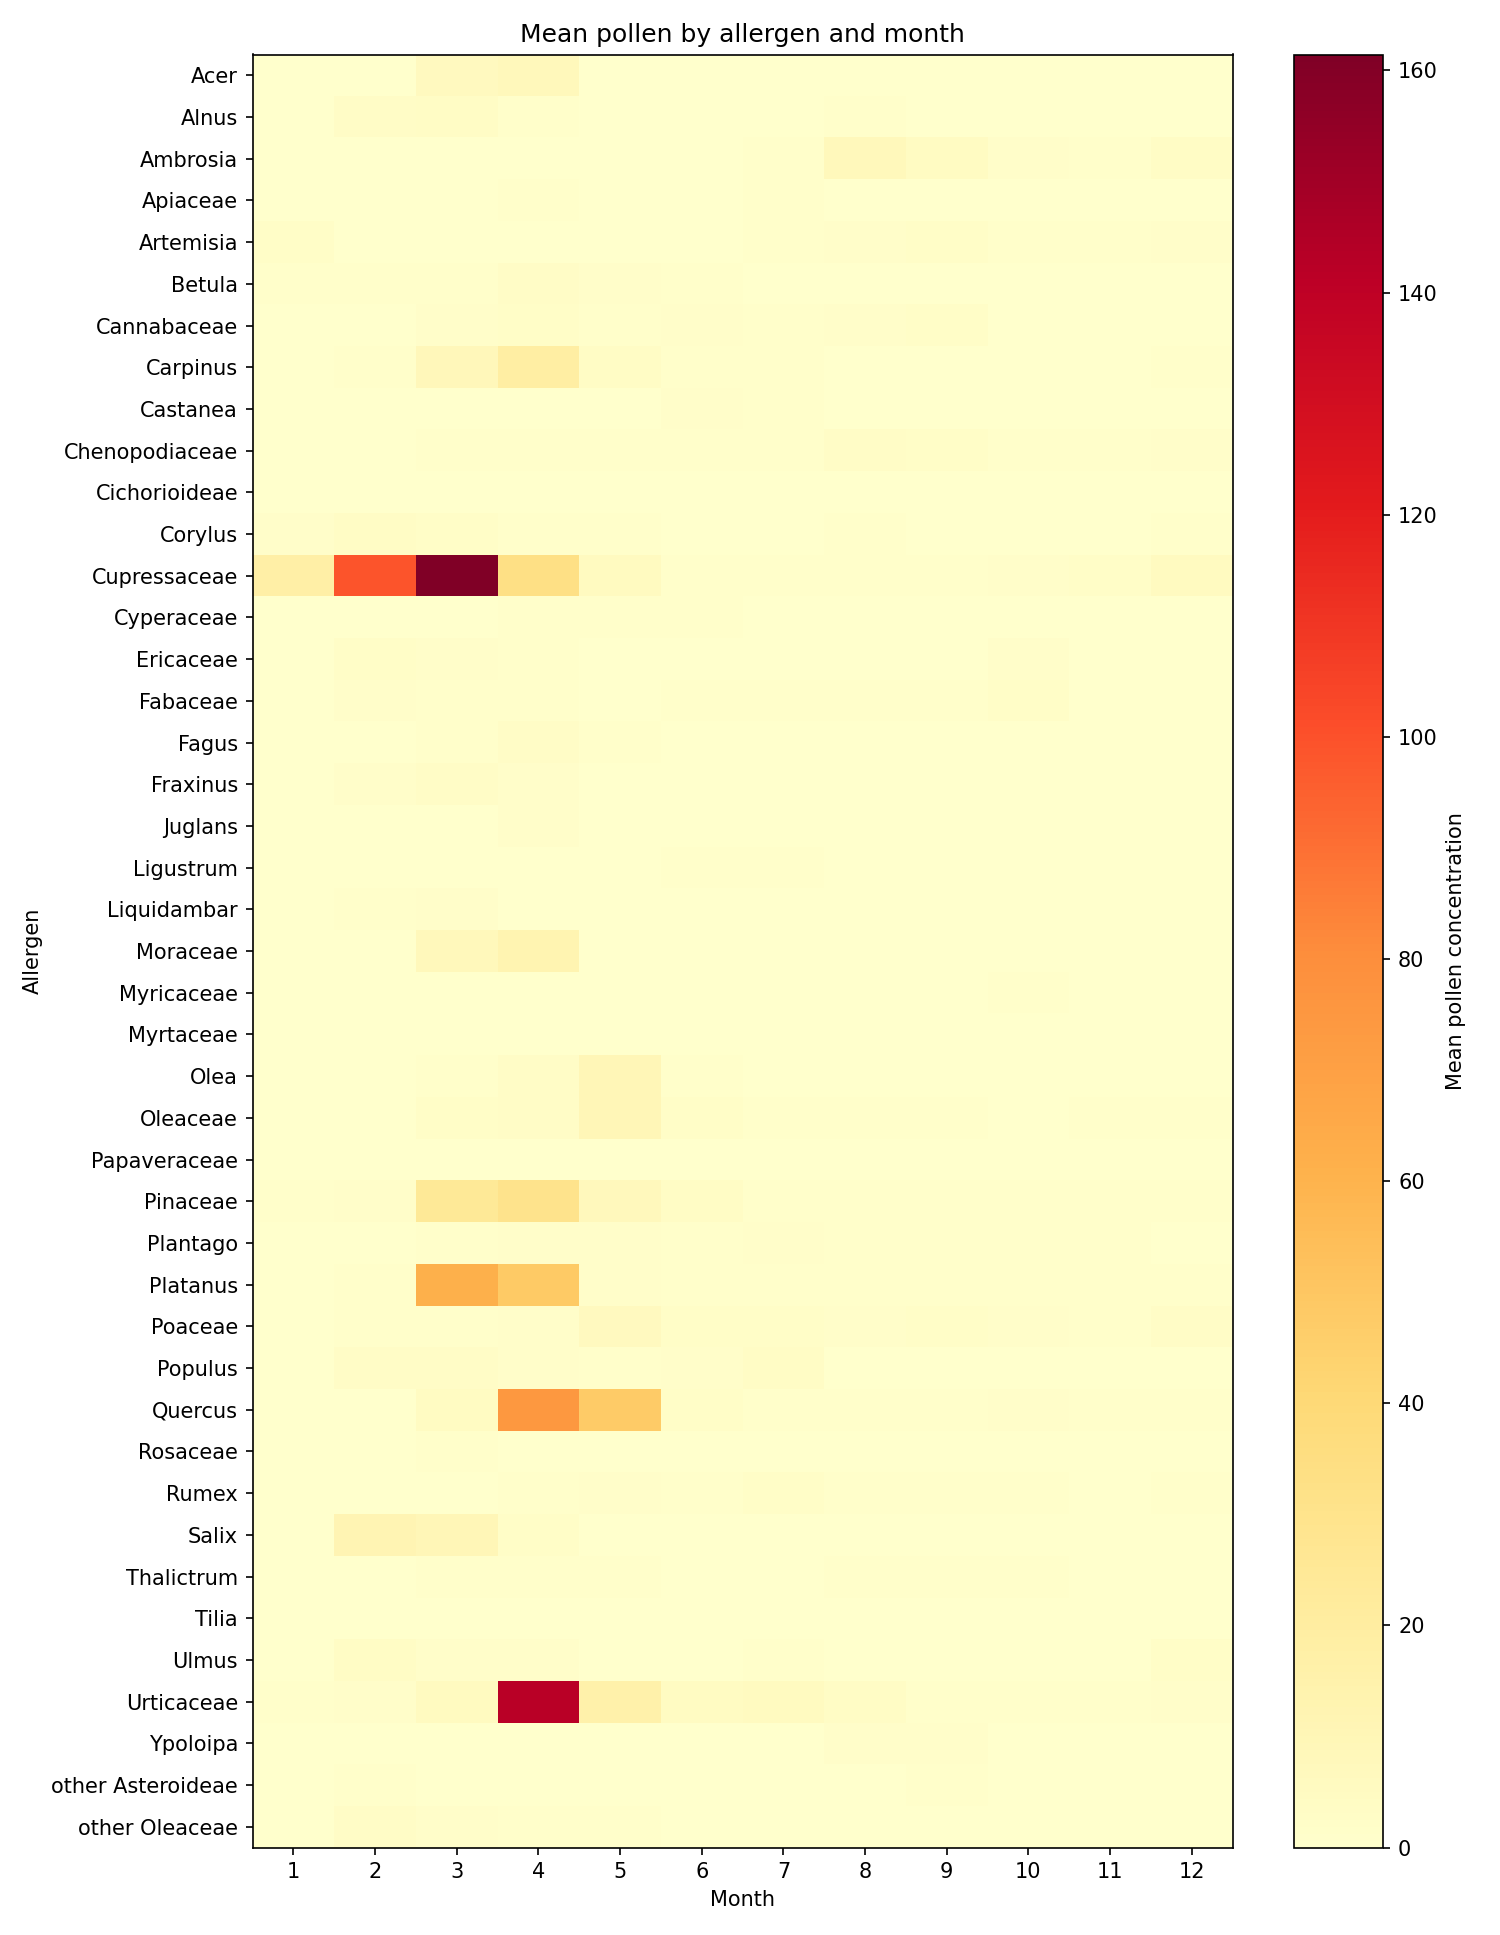
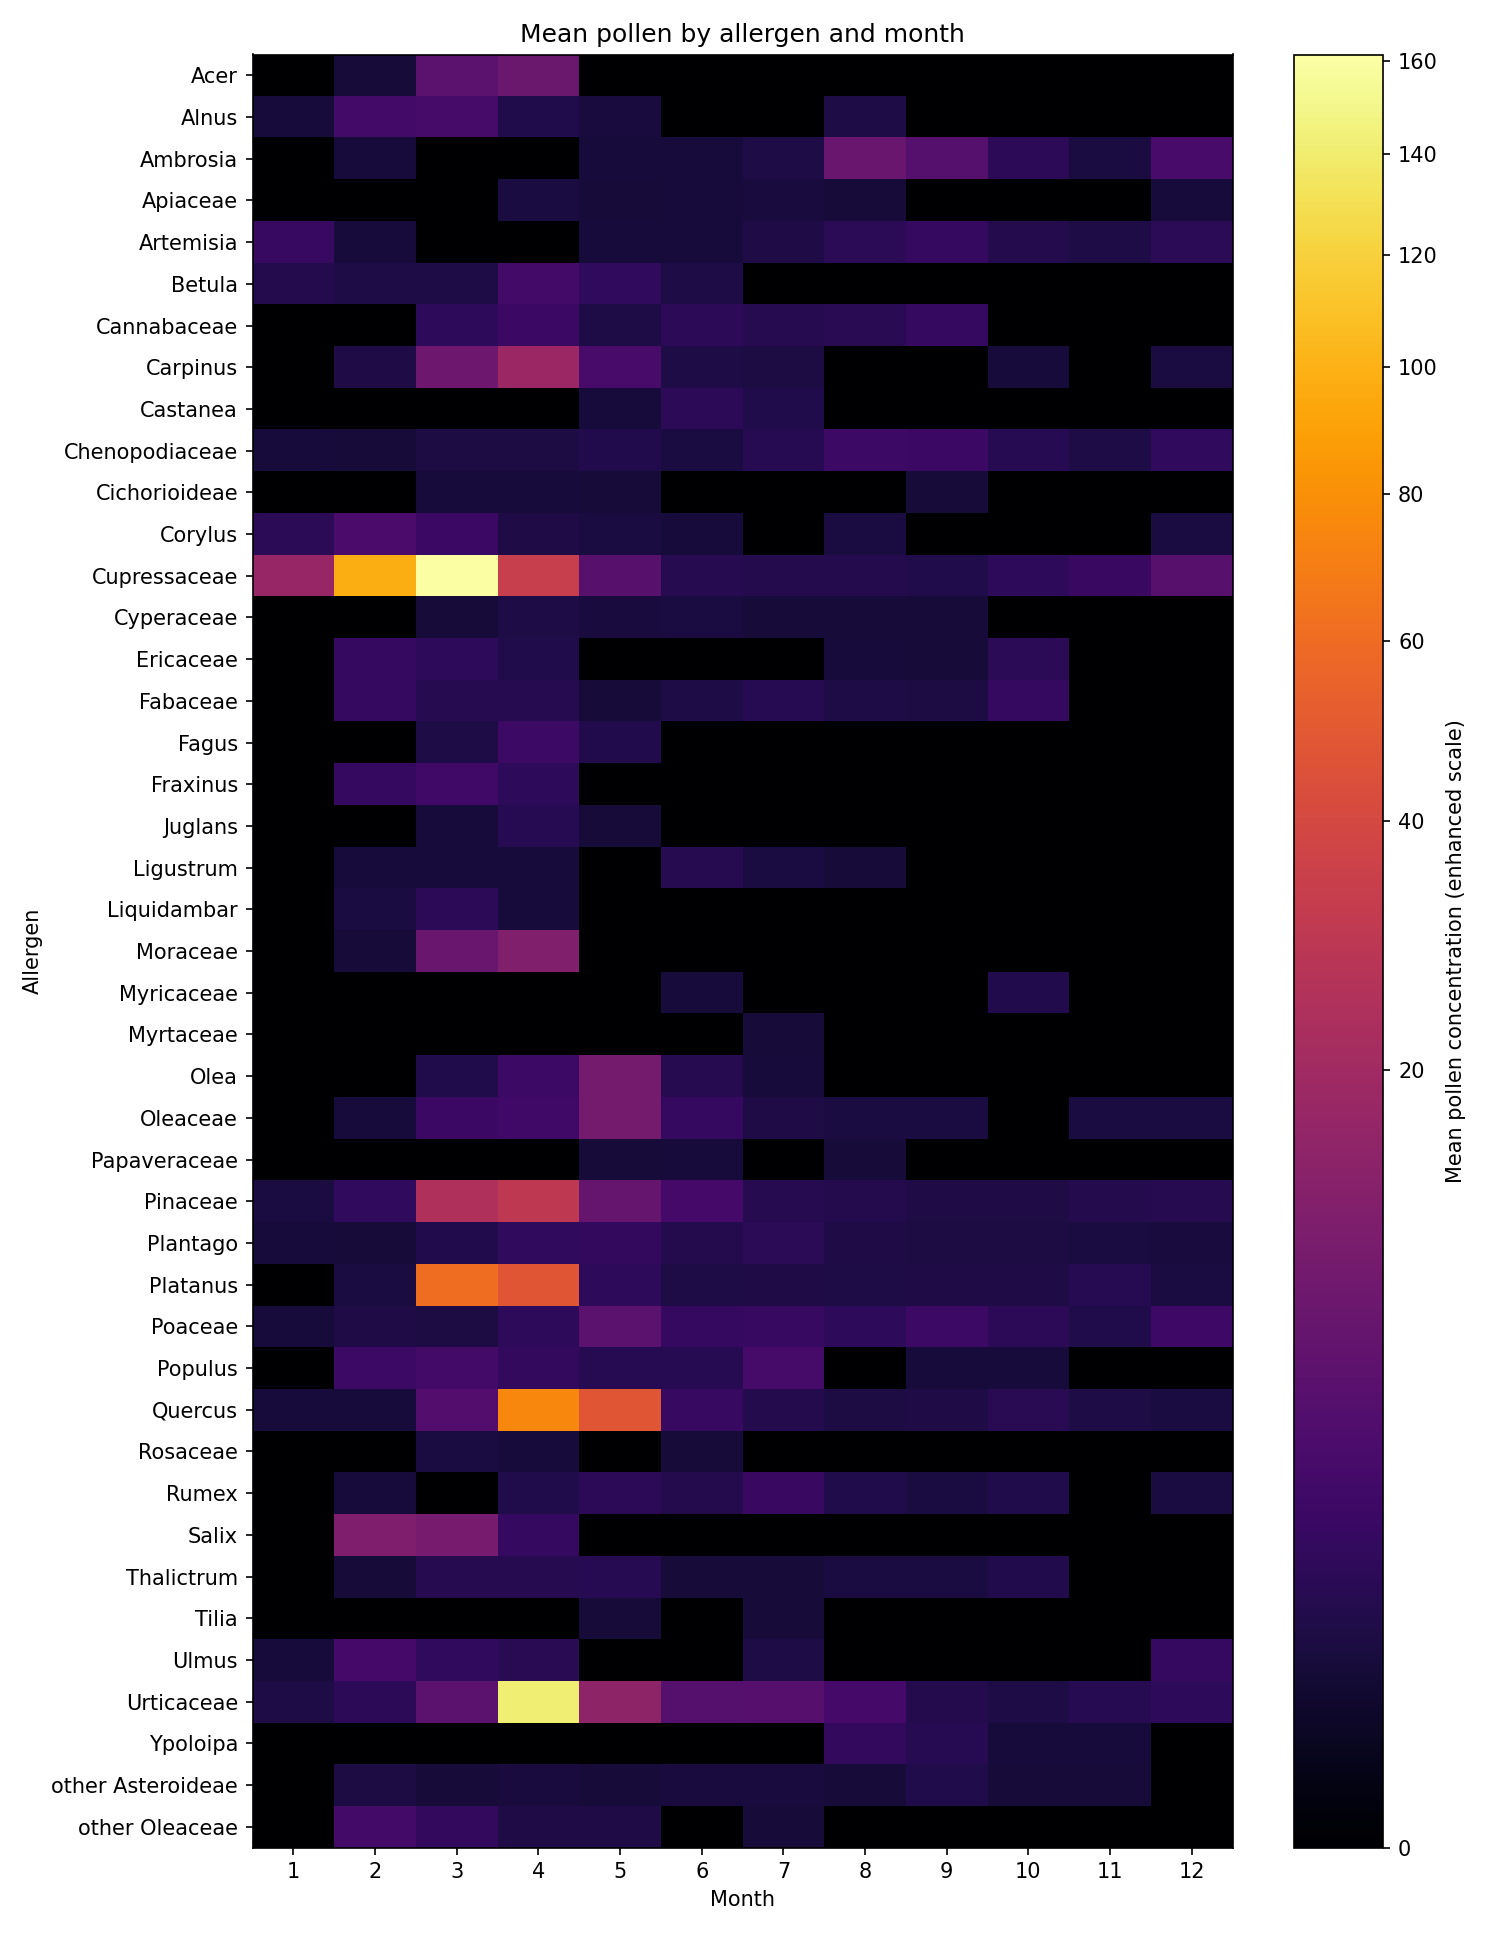
Enhance heatmap visualization for mean pollen concentration with PowerNorm scaling

diff --git a/thessaloniki_usecase/data_cat.py b/thessaloniki_usecase/data_cat.py
@@ -2,6 +2,7 @@ import os
 import numpy as np
 import pandas as pd
 import matplotlib.pyplot as plt
+from matplotlib.colors import PowerNorm
 
 folder_path = "./data_thes"
 
@@ -177,8 +178,25 @@ else:
 	# 2) Heatmap of mean pollen by allergen and month
 	pivot = seasonality.pivot(index="allergen", columns="month", values="mean_pollen")
 	plt.figure(figsize=(10, max(4, 0.3 * len(pivot.index))))
-	im = plt.imshow(pivot.fillna(0), aspect="auto", interpolation="nearest", cmap="YlOrRd")
-	plt.colorbar(im, label="Mean pollen concentration")
+	heat_data = pivot.fillna(0).to_numpy()
+	if np.any(heat_data > 0):
+		max_val = float(heat_data.max())
+		norm = PowerNorm(gamma=0.4, vmin=0, vmax=max_val)
+		im = plt.imshow(
+			heat_data,
+			aspect="auto",
+			interpolation="nearest",
+			cmap="inferno",
+			norm=norm,
+		)
+	else:
+		im = plt.imshow(
+			heat_data,
+			aspect="auto",
+			interpolation="nearest",
+			cmap="inferno",
+		)
+	plt.colorbar(im, label="Mean pollen concentration (enhanced scale)")
 	plt.yticks(range(len(pivot.index)), pivot.index)
 	plt.xticks(range(len(pivot.columns)), pivot.columns)
 	plt.xlabel("Month")
